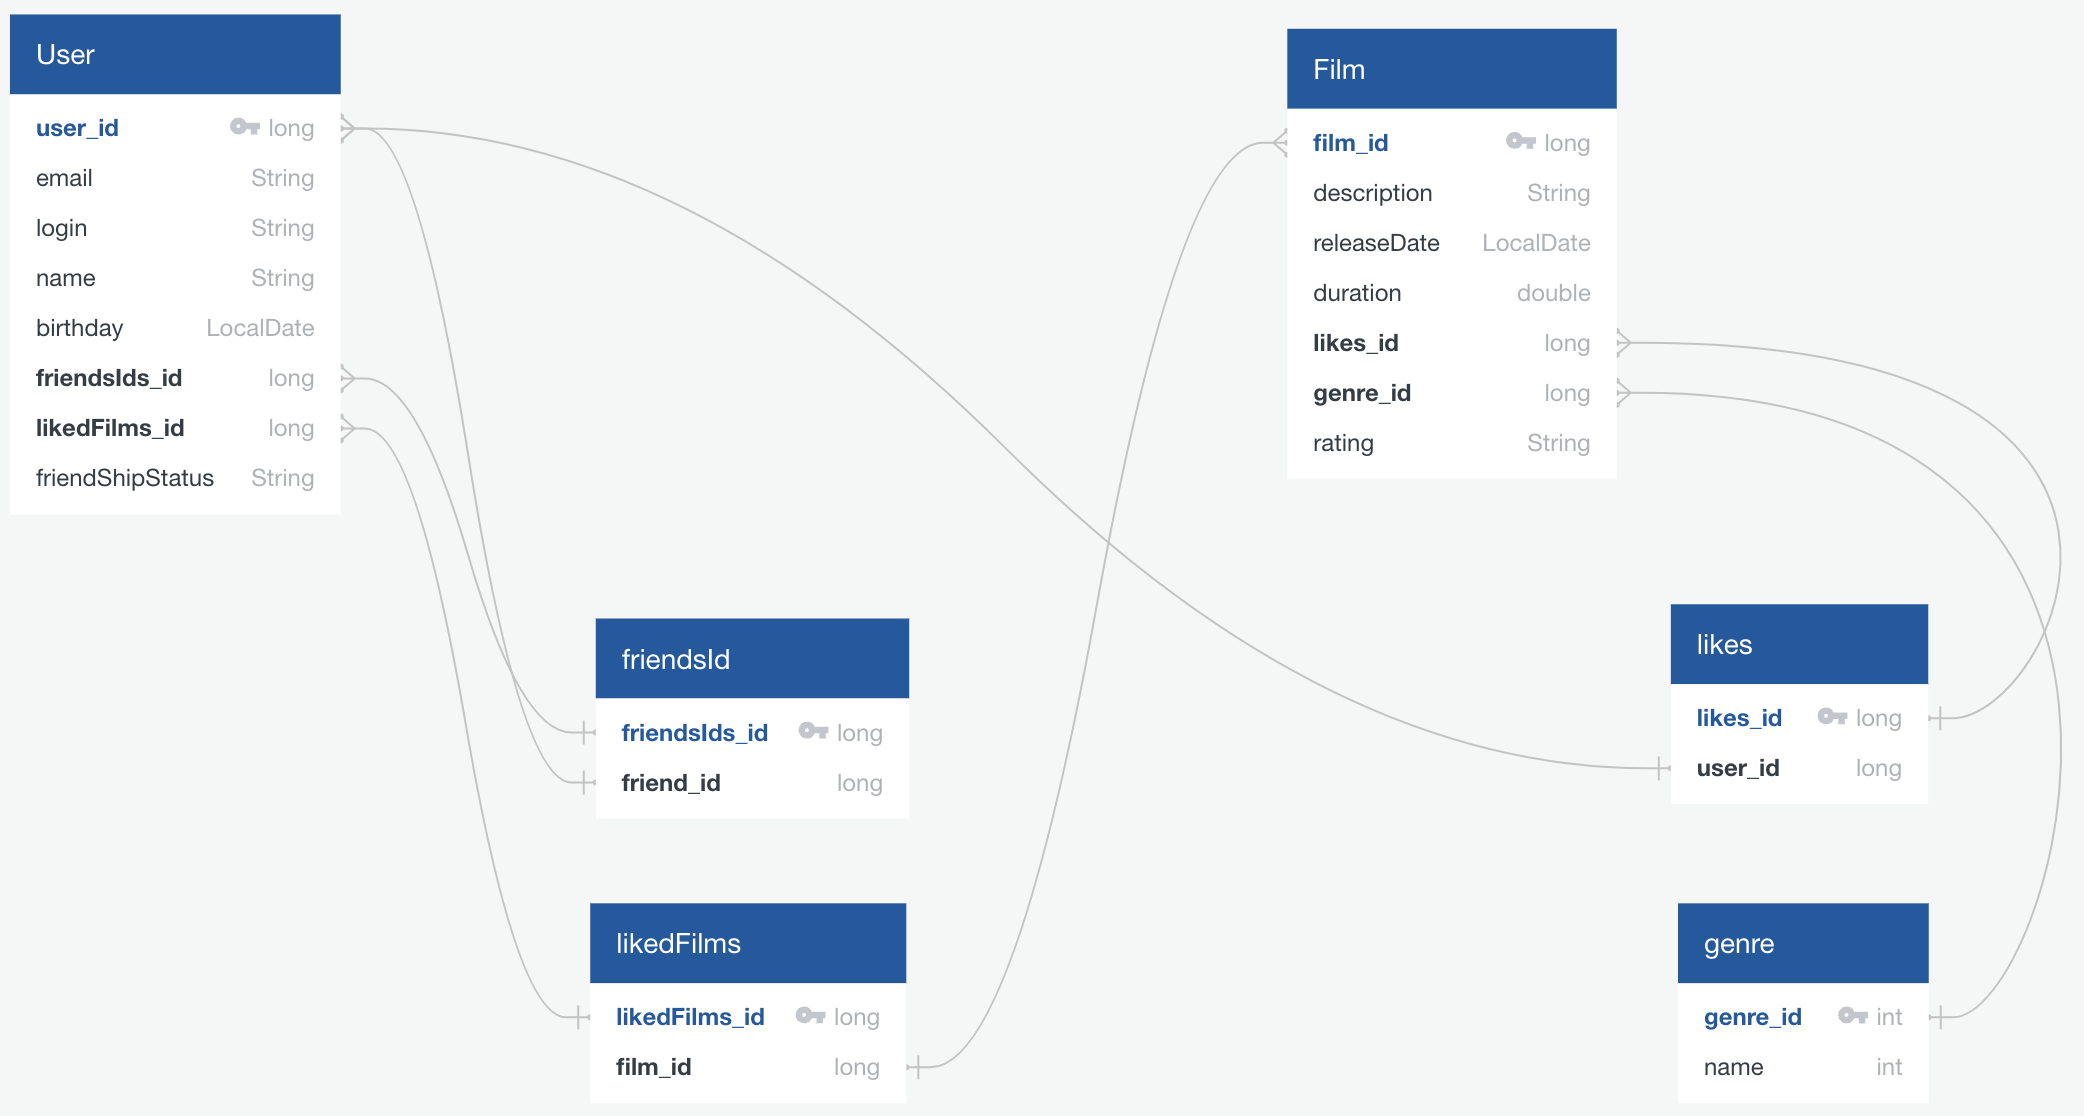
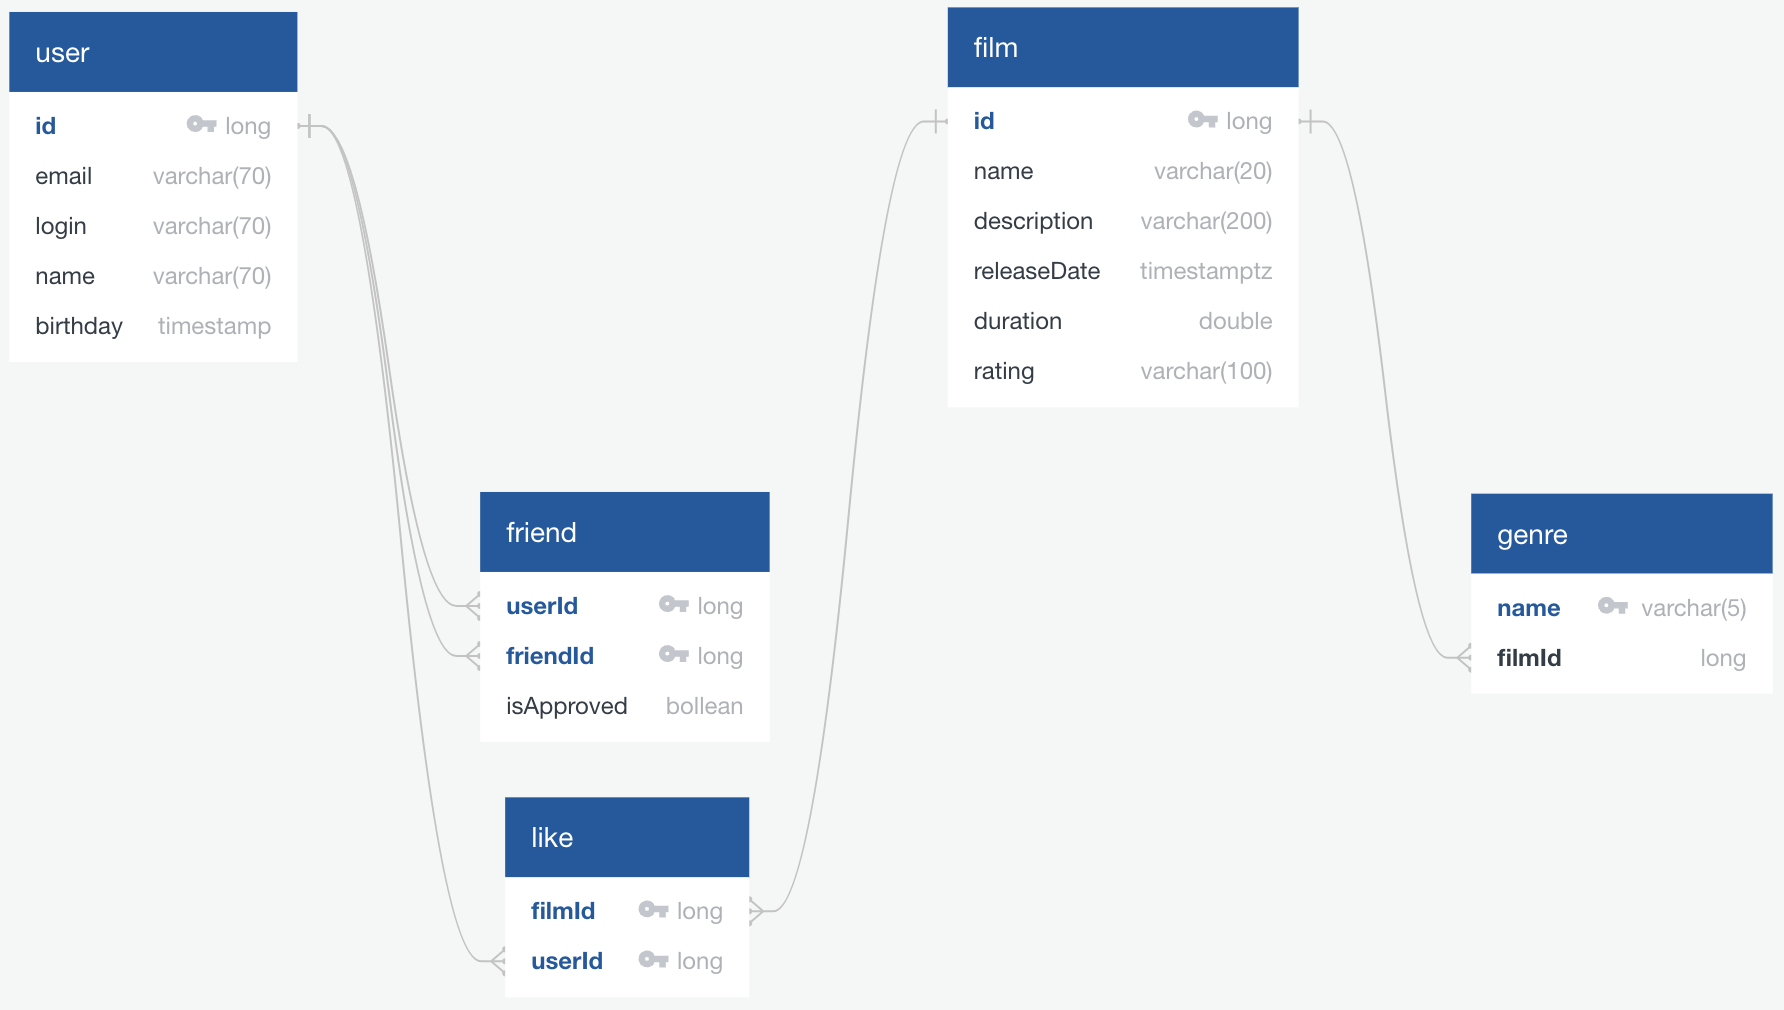
обновление моделей данных и схемы бд

diff --git a/src/main/java/ru/yandex/practicum/filmorate/service/user/UserServiceImpl.java b/src/main/java/ru/yandex/practicum/filmorate/service/user/UserServiceImpl.java
@@ -44,20 +44,20 @@ public class UserServiceImpl implements UserService {
         inMemoryUserStorage.idValidation(id);
         inMemoryUserStorage.idValidation(friendId);
         User user = getById(id);
-        Set<Long> userFriendsIds = user.getFriendIds();
+        Set<Long> userFriendsIds = user.getFriendsIds();
         if (friendsListIsEmpty(userFriendsIds)) {
             userFriendsIds = new HashSet<>();
         }
         userFriendsIds.add(friendId);
-        user.setFriendIds(userFriendsIds);
+        user.setFriendsIds(userFriendsIds);
 
         User friend = getById(friendId);
-        Set<Long> friendFriendsIds = friend.getFriendIds();
+        Set<Long> friendFriendsIds = friend.getFriendsIds();
         if (friendsListIsEmpty(friendFriendsIds)) {
             friendFriendsIds = new HashSet<>();
         }
         friendFriendsIds.add(id);
-        friend.setFriendIds(friendFriendsIds);
+        friend.setFriendsIds(friendFriendsIds);
 
         return user;
     }
@@ -67,12 +67,12 @@ public class UserServiceImpl implements UserService {
         inMemoryUserStorage.idValidation(friendId);
 
         User user = getById(id);
-        Set<Long> userFriendsIds = user.getFriendIds();
+        Set<Long> userFriendsIds = user.getFriendsIds();
         friendsListValidation(userFriendsIds, friendId);
         userFriendsIds.remove(friendId);
 
         User friend = getById(friendId);
-        Set<Long> friendFriendsIds = friend.getFriendIds();
+        Set<Long> friendFriendsIds = friend.getFriendsIds();
         friendsListValidation(friendFriendsIds, id);
         friendFriendsIds.remove(id);
 
@@ -83,7 +83,7 @@ public class UserServiceImpl implements UserService {
         inMemoryUserStorage.idValidation(id);
         User user = getById(id);
 
-        Set<Long> friendsIds = user.getFriendIds();
+        Set<Long> friendsIds = user.getFriendsIds();
         friendsListValidation(friendsIds);
 
         List<User> friendsList = new ArrayList<>();
@@ -100,10 +100,10 @@ public class UserServiceImpl implements UserService {
         inMemoryUserStorage.idValidation(otherId);
 
         User user = getById(id);
-        Set<Long> userFriendIds = user.getFriendIds();
+        Set<Long> userFriendIds = user.getFriendsIds();
 
         User otherUser = getById(otherId);
-        Set<Long> otherUserFriendsIds = otherUser.getFriendIds();
+        Set<Long> otherUserFriendsIds = otherUser.getFriendsIds();
 
         List<User> commonFriendsList = new ArrayList<>();
         if (userFriendIds != null && otherUserFriendsIds != null) {

diff --git a/src/main/java/ru/yandex/practicum/filmorate/service/film/FilmServiceImpl.java b/src/main/java/ru/yandex/practicum/filmorate/service/film/FilmServiceImpl.java
@@ -58,12 +58,12 @@ public class FilmServiceImpl implements FilmService {
         film.setLikes(likes);
 
         User user = userStorage.getById(userId);
-        Set<Long> likedFilms = user.getLikedFilms();
+        Set<Long> likedFilms = user.getLikedFilmsIds();
         if (likedFilms == null) {
             likedFilms = new HashSet<>();
         }
         likedFilms.add(id);
-        user.setLikedFilms(likedFilms);
+        user.setLikedFilmsIds(likedFilms);
 
         return film;
     }
@@ -78,7 +78,7 @@ public class FilmServiceImpl implements FilmService {
         filmLikes.remove(userId);
 
         User user = userStorage.getById(userId);
-        Set<Long> userLikes = user.getLikedFilms();
+        Set<Long> userLikes = user.getLikedFilmsIds();
         userServiceImpl.likedFilmsListValidation(userLikes, id);
         userLikes.remove(id);
 

diff --git a/src/main/java/ru/yandex/practicum/filmorate/model/Film.java b/src/main/java/ru/yandex/practicum/filmorate/model/Film.java
@@ -14,10 +14,10 @@ import java.util.Set;
 @Builder
 public class Film {
 
+    private long id;
+
     @NotBlank(message = "поле \"name\" должно быть заполнено")
     private String name;
-
-    private long id;
 
     @Size(max = 200, message = "длина поля \"description\" не должна привышать 200 символов")
     private String description;
@@ -29,4 +29,8 @@ public class Film {
 
     @JsonIgnore
     private Set<Long> likes;
+
+    private Set<Genre> genres;
+
+    private String rating;
 }

diff --git a/src/main/java/ru/yandex/practicum/filmorate/model/User.java b/src/main/java/ru/yandex/practicum/filmorate/model/User.java
@@ -30,7 +30,7 @@ public class User {
     private LocalDate birthday;
 
     @JsonIgnore
-    private Set<Long> friendIds;
+    private Set<Long> friendsIds;
     @JsonIgnore
-    private Set<Long> likedFilms;
+    private Set<Long> likedFilmsIds;
 }

diff --git a/src/main/java/ru/yandex/practicum/filmorate/model/Friend.java b/src/main/java/ru/yandex/practicum/filmorate/model/Friend.java
@@ -1,0 +1,7 @@
+package ru.yandex.practicum.filmorate.model;
+
+public class Friend {
+    private long userId;
+    private long friendId;
+    private boolean isApproved;
+}

diff --git a/src/main/java/ru/yandex/practicum/filmorate/model/Genre.java b/src/main/java/ru/yandex/practicum/filmorate/model/Genre.java
@@ -1,0 +1,6 @@
+package ru.yandex.practicum.filmorate.model;
+
+public class Genre {
+    private long filmId;
+    private String name;
+}

diff --git a/src/main/java/ru/yandex/practicum/filmorate/model/Like.java b/src/main/java/ru/yandex/practicum/filmorate/model/Like.java
@@ -1,0 +1,6 @@
+package ru.yandex.practicum.filmorate.model;
+
+public class Like {
+    private long filmId;
+    private long userId;
+}
